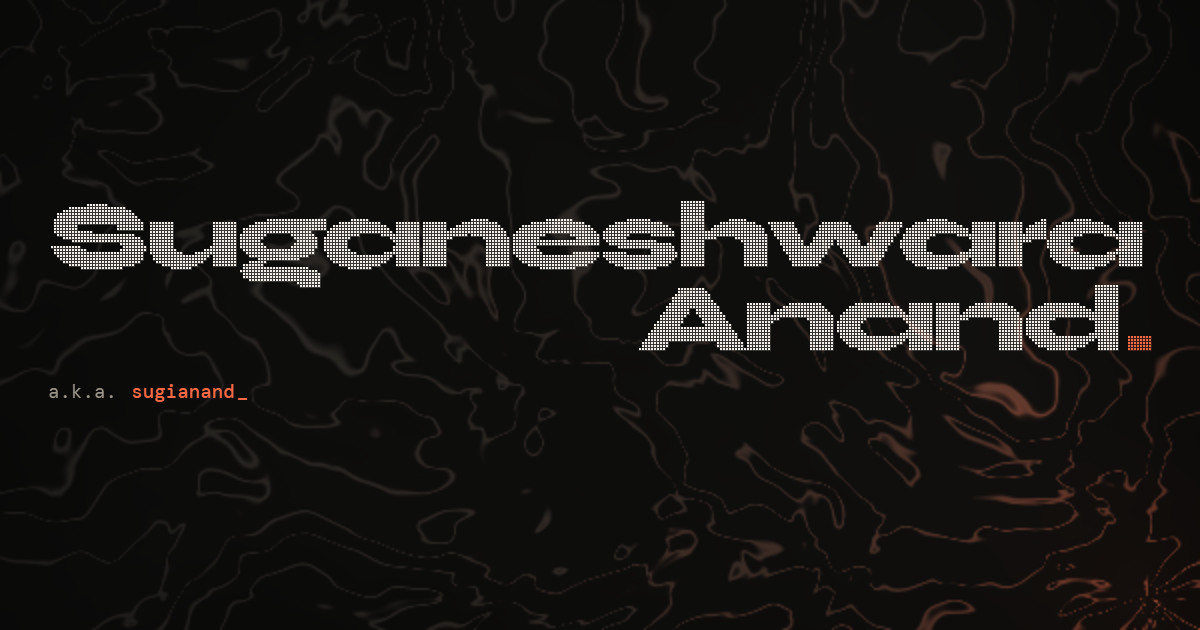
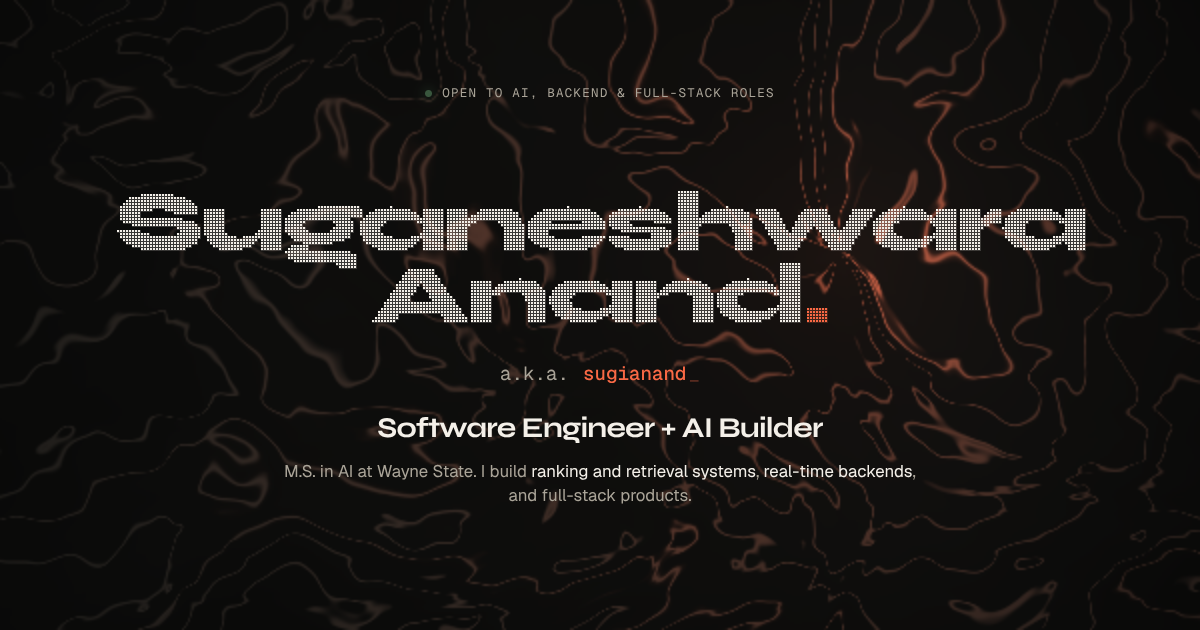
Refresh social preview to match the centered hero
The og.png card still showed the old left-aligned hero with only the
name. Recaptured it at 1200x630 from the current build so link
previews show the centered name, the "Software Engineer + AI Builder"
role, the one-line intro, and the open-to-roles status. Buttons, nav,
and the assistant launcher are hidden since they mean nothing in a
static card. Updated og:image:alt to describe the new image.

Claude-Session: https://claude.ai/code/session_01DYzvNdr6KsFmkbj8X9kcnG

diff --git a/index.html b/index.html
@@ -20,7 +20,7 @@
     <meta property="og:image" content="https://sugianand.github.io/portfolio/og.png" />
     <meta property="og:image:width" content="1200" />
     <meta property="og:image:height" content="630" />
-    <meta property="og:image:alt" content="Suganeshwara Anand, rendered as dot-matrix text over a topographic map" />
+    <meta property="og:image:alt" content="Suganeshwara Anand in dot-matrix type over a topographic map, with the title Software Engineer + AI Builder" />
 
     <meta name="twitter:card" content="summary_large_image" />
     <meta name="twitter:title" content="Suganeshwara Anand — Software + AI" />
